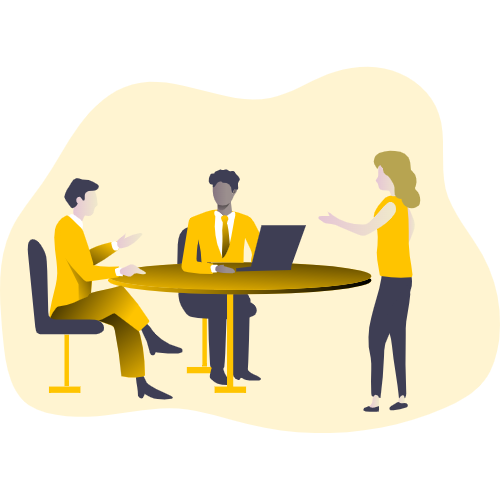
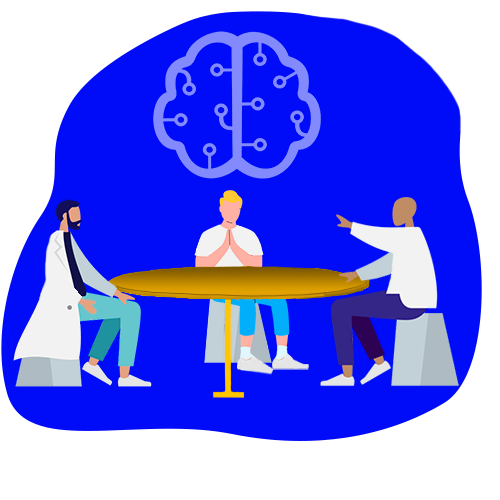
Atualizacao_da_tela_Sobre
Foi feita a atualização da tela sobre, a imagem de todos os integrantes com os links com suas informações.

diff --git a/src/pages/Sobre/sobre.jsx b/src/pages/Sobre/sobre.jsx
@@ -3,7 +3,20 @@ import "./style.css";
 import missao from "../../../src/assets/image/missao.png";
 import visao from "../../../src/assets/image/visao.png"
 import valores from "../../../src/assets/image/valores.png"
-import equipe from "../../../src/assets/image/equipe.png"
+import sobrenos from "../../../src/assets/image/sobrenos.png"
+import franca from "../../../src/assets/image/franca.png"
+import almeida from "../../../src/assets/image/almeida.png"
+import iago from "../../../src/assets/image/iago.png"
+import sara from "../../../src/assets/image/sara.png"
+import cami from "../../../src/assets/image/cami.png"
+import noelia from "../../../src/assets/image/noelia.png"
+import lucas from "../../../src/assets/image/lucas.png"
+import rian from "../../../src/assets/image/rian.png"
+
+
+import { FaGithub } from 'react-icons/fa'
+import { FaLinkedin } from 'react-icons/fa'
+
 import NavBarLogo2 from "../../components/Header/NavBarLogo2";
 
 function Sobre() {
@@ -23,15 +36,16 @@ function Sobre() {
 
                     <div className="col-md-6">
 
-                        <img src={equipe} alt="Imagem da equipe" />
-                        
+                        <img src={sobrenos} alt="Imagem da equipe" className="img-equipe" />
+
                     </div>
-                    
+
 
                 </div>
             </div>
             <div className="container mt-5 mt-md-1 text-white ">
                 <div className="row sobre-section g-4">
+
                     <div className="col-lg-3 col-md-4">
 
                         <div className="mvv-cont">
@@ -68,6 +82,183 @@ function Sobre() {
                         </div>
 
                     </div>
+
+
+
+
+                    <h2 className="text-center sub-equipe">Equipe</h2>
+
+
+                    <div className="col-lg-3 col-md-4">
+
+                        <div className="imagem-equipe">
+
+                            <div className=" text-center">
+                                <img src={rian} alt="Logo" className=" imagem-equipe mt-5" />
+                            </div>
+                            <p className="px-3">Rian Paiva</p>
+
+                            <a className="lista" target="blank" href="https://github.com/RianPaiva">
+                                <li><FaGithub /></li>
+                            </a>
+                            
+                            <a className="lista" target="blank" href="https://www.linkedin.com/in/paivarian/">
+                                <li><FaLinkedin /></li>
+                            </a>
+
+
+
+                        </div>
+                    </div>
+
+                    <div className="col-lg-3 col-md-4">
+
+                        <div className="imagem-equipe">
+
+                            <div className=" text-center">
+                                <img src={almeida} alt="Logo" className=" imagem-equipe mt-5" />
+                            </div>
+                            <p className="px-3">Matheus Almeida</p>
+                            <a className="lista" target="blank" href="https://github.com/MTHS-ALMD/">
+                                <li><FaGithub /></li>
+                            </a>
+
+                            <a className="lista" target="blank" href="https://www.linkedin.com/in/matheus-almeida-td4/">
+                                <li><FaLinkedin /></li>
+                            </a>
+
+                        </div>
+                    </div>
+                    <div className="col-lg-3 col-md-4">
+
+                        <div className="imagem-equipe">
+
+                            <div className=" text-center">
+                                <img src={franca} alt="Logo" className=" imagem-equipe mt-5" />
+                            </div>
+                            <p className="px-3">Matheus França</p>
+                            <a className="lista" target="blank" href="https://github.com/MatheusFCardoso">
+                                <li><FaGithub /></li>
+                            </a>
+
+                            <a className="lista" target="blank" href="https://www.linkedin.com/in/matheusfrancacardoso/">
+                                <li><FaLinkedin /></li>
+                            </a>
+
+
+
+                        </div>
+                    </div>
+                    <div className="col-lg-3 col-md-4">
+
+                        <div className="imagem-equipe">
+
+                            <div className=" text-center">
+                                <img src={cami} alt="Logo" className=" imagem-equipe mt-5" />
+                            </div>
+                            <p className="px-3">Camilly Cruz</p>
+
+                            <a className="lista" target="blank" href="https://github.com/camily-cs">
+                                <li><FaGithub /></li>
+                            </a>
+
+                            <a className="lista" target="blank" href="https://www.linkedin.com/in/camilycruzsilva/">
+                                <li><FaLinkedin /></li>
+                            </a>
+
+
+
+                        </div>
+                    </div>
+                    <div className="col-lg-3 col-md-4">
+
+                        <div className="imagem-equipe">
+
+                            <div className=" text-center">
+                                <img src={iago} alt="Logo" className=" imagem-equipe mt-5" />
+                            </div>
+                            <p className="px-3">Iago Paiva</p>
+
+                            <a className="lista" target="blank" href="https://github.com/IagoPaiva19">
+                                <li><FaGithub /></li>
+                            </a>
+
+                            <a className="lista" target="blank" href="https://www.linkedin.com/in/iago-paiva-21534a233/">
+                                <li><FaLinkedin /></li>
+                            </a>
+
+
+
+                        </div>
+                    </div>
+
+                    <div className="col-lg-3 col-md-4">
+
+                        <div className="imagem-equipe">
+
+                            <div className=" text-center">
+                                <img src={sara} alt="Logo" className=" imagem-equipe mt-5" />
+                            </div>
+                            <p className="px-3">Sara Morais</p>
+
+                            <a className="lista" target="blank" href="https://github.com/saram0rais">
+                                <li><FaGithub /></li>
+                            </a>
+
+                            <a className="lista" target="blank" href="https://www.linkedin.com/in/saramoraisdsantos/">
+                                <li><FaLinkedin /></li>
+                            </a>
+
+
+
+
+
+                        </div>
+                    </div>
+                    <div className="col-lg-3 col-md-4">
+
+                        <div className="imagem-equipe">
+
+                            <div className=" text-center">
+                                <img src={noelia} alt="Logo" className=" imagem-equipe mt-5" />
+                            </div>
+                            <p className="px-3">Noelia Mariana</p>
+
+                            <a className="lista" target="blank" href="https://github.com/noeliamariana">
+                                <li><FaGithub /></li>
+                            </a>
+
+                            <a className="lista" target="blank" href="https://www.linkedin.com/in/noelia-mariana-vasquez-nina/">
+                                <li><FaLinkedin /></li>
+                            </a>
+
+
+
+                        </div>
+                    </div>
+                    <div className="col-lg-3 col-md-4">
+
+                        <div className="imagem-equipe">
+
+                            <div className=" text-center">
+                                <img src={lucas} alt="Logo" className=" imagem-equipe mt-5" />
+                            </div>
+                            <p className="px-3">Lucas Alencar</p>
+
+                            <a className="lista" target="blank" href="https://github.com/Lusquinhasoa">
+                                <li><FaGithub /></li>
+                            </a>
+
+                            <a className="lista" target="blank" href="https://www.linkedin.com/in/lucasalencar2/">
+                                <li><FaLinkedin /></li>
+                            </a>
+
+
+
+                        </div>
+                    </div>
+
+
                 </div>
             </div>
 

diff --git a/src/pages/Sobre/style.css b/src/pages/Sobre/style.css
@@ -20,11 +20,40 @@
     justify-content: center;
 }
 
+.img-equipe {
+    animation: flutuacao 5s ease-in-out infinite;
+    }
+
+@keyframes flutuacao {
+    0% {
+		transform: translatey(0px);
+	}
+	50% {
+		transform: translatey(-20px);
+	}
+	100% {
+		transform: translatey(0px);
+	}
+}
 
 .mvv{
     width: 100px;
     height: 100px;
 }
+
+.imagem-equipe{
+    text-align: center;
+}
+.imagem-equipe img{
+    width: 175px;
+    height: 228px;
+    object-fit: cover;
+    text-align: center;
+    /* filter: drop-shadow(1px 0 3px  rgb(40, 38, 172)); */
+    /* border: 2px solid black; */
+    /* border-radius: 50%; */
+}
+
 
 .mvv-cont{
     margin-top: 100px;
@@ -34,9 +63,25 @@
     height: 500px;
 }
 
+.sub-equipe h2{
+   font: bold 80px "Neo Sans", sans-serif;
+   color: red;
+   text-transform: uppercase;
+
+}
 .mvv-cont p{
     margin-top: 100px;
 }
+
+.lista li{
+    list-style: none;
+    display: inline;
+    padding: 0px 15px;
+    font-size: 2.2em;
+}
+
+
+
 
 @media only screen and (max-width: 768px) {
 

diff --git a/src/components/Footer/index.jsx b/src/components/Footer/index.jsx
@@ -46,7 +46,6 @@ function Footer() {
                         <a target="bank" href="https://linktr.ee/satusspace">
                             <li><SiLinktree /></li>
                         </a>
-
                         <li><FaLinkedin /></li>
 
                     </ul>
